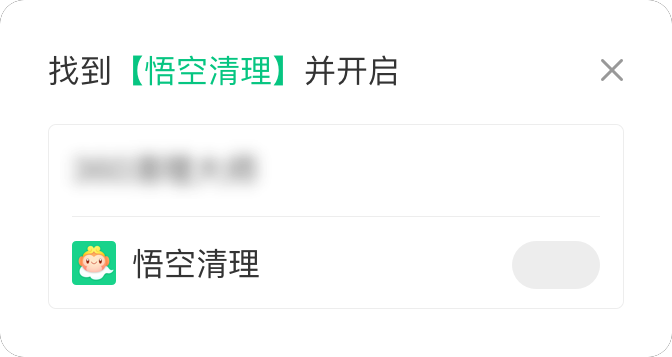
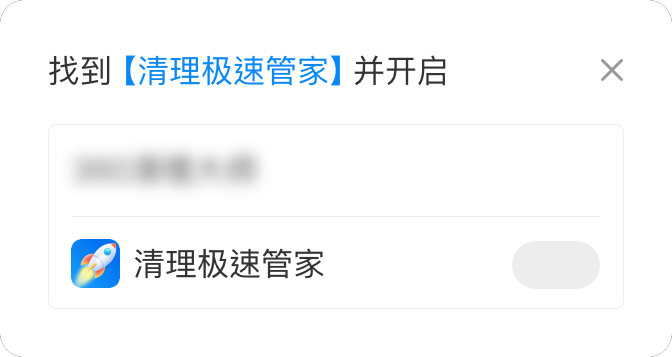
改名包；

Changed region(s): [[0.0938, 0.6471, 0.5, 0.8319], [0.1875, 0.1541, 0.6875, 0.2465]]

diff --git a/app/src/main/java/com/xiaoniu/cleanking/ui/newclean/activity/CleanFinishAdvertisementActivity.java b/app/src/main/java/com/xiaoniu/cleanking/ui/newclean/activity/CleanFinishAdvertisementActivity.java
@@ -114,7 +114,7 @@ public class CleanFinishAdvertisementActivity extends BaseActivity<CleanFinishAd
             if (TextUtils.isEmpty(mTitle))
                 mTitle = getString(R.string.app_name);
             if (getString(R.string.app_name).contains(mTitle)) {
-                //清理管家极速版
+                //清理极速管家
                 if (TextUtils.isEmpty(num) || num.equals("0.0") || num.equals("0")) {
                     mTvSize.setText("");
                     mTvGb.setText("已达到最佳状态");
@@ -237,10 +237,10 @@ public class CleanFinishAdvertisementActivity extends BaseActivity<CleanFinishAd
     void getPageData() {
         sourcePage = AppHolder.getInstance().getCleanFinishSourcePageId();
         if (getString(R.string.app_name).contains(mTitle)) {
-            //清理管家极速版
+            //清理极速管家
             currentPage = "clean_success_page";
         } else if (getString(R.string.tool_one_key_speed).contains(mTitle)) {
-            //清理管家极速版
+            //清理极速管家
             currentPage = "boost_success_page";
         } else if (getString(R.string.tool_suggest_clean).contains(mTitle)) {
             //1.2.1清理完成页面_建议清理
@@ -321,7 +321,7 @@ public class CleanFinishAdvertisementActivity extends BaseActivity<CleanFinishAd
     public void pageStart() {
 
         if (getString(R.string.app_name).contains(mTitle)) {
-            //清理管家极速版
+            //清理极速管家
             NiuDataAPI.onPageStart("clean_success_page_view_page", "清理结果出现时");
         } else if (getString(R.string.tool_one_key_speed).contains(mTitle)) {
             //一键加速
@@ -359,7 +359,7 @@ public class CleanFinishAdvertisementActivity extends BaseActivity<CleanFinishAd
     //失去焦点
     public void onPageEnd() {
         if (getString(R.string.app_name).contains(mTitle)) {
-            //清理管家极速版
+            //清理极速管家
             NiuDataAPIUtil.onPageEnd(source_page, currentPage, "clean_success_page_view_page", "清理结果出现时");
         } else if (getString(R.string.tool_one_key_speed).contains(mTitle)) {
             //一键加速

diff --git a/app/src/main/java/com/xiaoniu/cleanking/ui/newclean/activity/NewCleanFinishActivity.java b/app/src/main/java/com/xiaoniu/cleanking/ui/newclean/activity/NewCleanFinishActivity.java
@@ -1088,7 +1088,7 @@ public class NewCleanFinishActivity extends BaseActivity<CleanFinishPresenter> i
         }
         /*---------------------------------------- 埋点---------------------------------------------------------------------*/
         if (getString(R.string.app_name).contains(mTitle)) {
-            //清理管家极速版
+            //清理极速管家
             NiuDataAPI.onPageStart("clean_success_page_view_page", "清理结果出现时");
         } else if (getString(R.string.tool_one_key_speed).contains(mTitle)) {
             //一键加速
@@ -1132,7 +1132,7 @@ public class NewCleanFinishActivity extends BaseActivity<CleanFinishPresenter> i
     protected void onPause() {
         Jzvd.releaseAllVideos();
         if (getString(R.string.app_name).contains(mTitle)) {
-            //清理管家极速版
+            //清理极速管家
             NiuDataAPIUtil.onPageEnd(sourcePage, currentPage, "clean_success_page_view_page", "清理结果出现时");
         } else if (getString(R.string.tool_one_key_speed).contains(mTitle)) {
             //一键加速

diff --git a/app/src/main/java/com/xiaoniu/cleanking/utils/update/PreferenceUtil.java b/app/src/main/java/com/xiaoniu/cleanking/utils/update/PreferenceUtil.java
@@ -141,7 +141,7 @@ public class PreferenceUtil {
      */
     public static String getWebViewUrl() {
         SharedPreferences sharedPreferences = AppApplication.getInstance().getSharedPreferences(SpCacheConfig.CACHES_FILES_NAME, Context.MODE_PRIVATE);
-        // 如果用户成功分享一次后使用清理管家极速版三次则完成页的分享领券页面永久切换到资讯页面；如果用户没有分享但使用清理管家极速版超过20次则完成页的分享领券页面永久切换到资讯页面 开发中
+        // 如果用户成功分享一次后使用清理极速管家三次则完成页的分享领券页面永久切换到资讯页面；如果用户没有分享但使用清理极速管家超过20次则完成页的分享领券页面永久切换到资讯页面 开发中
         String infoStream = ApiModule.SHOPPING_MALL + "?deviceId=" + DeviceUtils.getUdid() + "&type=2";
         if (!getClearNum() || !getShareNum())
             return infoStream;

diff --git a/app/src/main/java/com/xiaoniu/cleanking/keeplive/receive/TimingReceiver.java b/app/src/main/java/com/xiaoniu/cleanking/keeplive/receive/TimingReceiver.java
@@ -668,7 +668,7 @@ public class TimingReceiver extends BroadcastReceiver {
                 Intent intent = new Intent(conx, JPushReceiver.class);
                 intent.setAction("com.geek.push.ACTION_RECEIVE_NOTIFICATION_CLICK");
                 //notifyId不关注_跟产品已经确认()
-                intent.putExtra("push_data", new PushMsg((100001 + NumberUtils.mathRandomInt(1, 100000)), "清理管家极速版", push_content, null, null, actionMap));
+                intent.putExtra("push_data", new PushMsg((100001 + NumberUtils.mathRandomInt(1, 100000)), "清理极速管家", push_content, null, null, actionMap));
                 intent.addCategory(mContext.getPackageName());
                 intent.setPackage(mContext.getPackageName());
                 KeepAliveManager.sendNotification(conx, "", push_content, R.drawable.ic_launcher, intent, btn);

diff --git a/app/src/main/java/com/xiaoniu/cleanking/ui/main/activity/NewsLoadActivity.java b/app/src/main/java/com/xiaoniu/cleanking/ui/main/activity/NewsLoadActivity.java
@@ -77,7 +77,7 @@ public class NewsLoadActivity extends SimpleActivity implements MainActivity.OnK
                 return;
             }
             if (!isDestroyed()) {
-                mCanGoBack = !"清理管家极速版商城".equals(title);
+                mCanGoBack = !"清理极速管家商城".equals(title);
             }
             if (mTextTitle != null) {
                 mTextTitle.setText("新闻热点");

diff --git a/app/src/main/java/com/xiaoniu/cleanking/ui/main/fragment/ShoppingMallFragment.java b/app/src/main/java/com/xiaoniu/cleanking/ui/main/fragment/ShoppingMallFragment.java
@@ -127,7 +127,7 @@ public class ShoppingMallFragment extends SimpleFragment implements MainActivity
                 return;
             }
             if (getActivity() != null) {
-                mCanGoBack = !"清理管家极速版商城".equals(title);
+                mCanGoBack = !"清理极速管家商城".equals(title);
             }
         }
     }

diff --git a/app/src/main/java/com/xiaoniu/cleanking/app/Constant.java b/app/src/main/java/com/xiaoniu/cleanking/app/Constant.java
@@ -82,7 +82,7 @@ public class Constant {
             "com.xiaoniu.cleanking", // 悟空清理
             "com.xiaoniu",
             "com.geek.jk.weather.fission", // 知心天气
-            "com.hellogeek.cleanking"     //清理管家极速版
+            "com.hellogeek.cleanking"     //清理极速管家
 
     );
 

diff --git a/otherlib/jksdk/src/main/java/com/comm/jksdk/config/AdsConfig.java b/otherlib/jksdk/src/main/java/com/comm/jksdk/config/AdsConfig.java
@@ -347,7 +347,7 @@ public class AdsConfig {
                 appName = "悟空清理";
                 break;
             case "181":
-                appName = "清理管家极速版";
+                appName = "清理极速管家";
                 break;
             case "19":
                 appName = "最来电";
